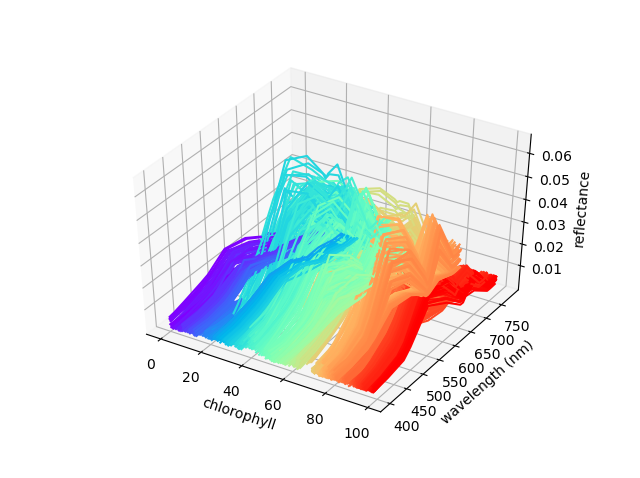
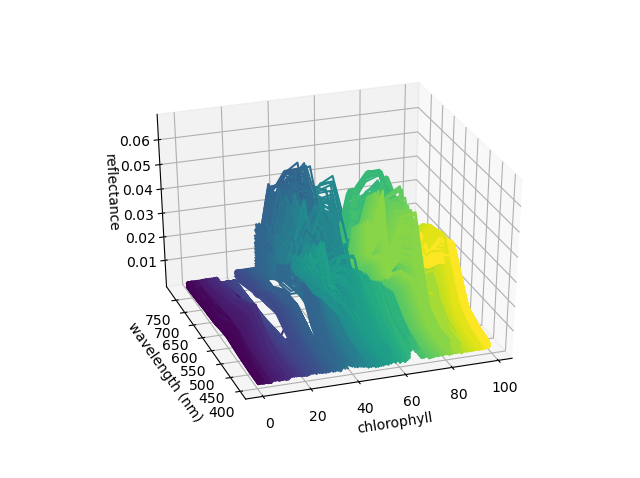
paths and plot

Changed region(s): [[0.1562, 0.205, 0.9375, 0.9372], [0.4375, 0.1757, 0.5, 0.205]]

diff --git a/models/utilities/plot_training_data.py b/models/utilities/plot_training_data.py
@@ -1,0 +1,38 @@
+import matplotlib
+
+matplotlib.use('Qt5Agg')
+
+from matplotlib import colors, pyplot
+import numpy
+import pandas
+
+if __name__ == '__main__':
+    training_data = pandas.read_csv('../../data/training.csv')
+    training_data = training_data.sort_values('Chl')
+
+    wavelengths = list(training_data.columns)[:-1]
+    wavelengths[0] = wavelengths[0][2:]
+    wavelengths = [float(wavelength) for wavelength in wavelengths]
+
+    color_map = pyplot.cm.viridis
+    color_normalizer = colors.Normalize(vmin=0, vmax=len(training_data))
+
+    chlorophyll_mininmum = training_data['Chl'].min()
+    chlorophyll_maxinmum = training_data['Chl'].max()
+
+    figure = pyplot.figure()
+    axis = figure.add_subplot(1, 1, 1, projection='3d')
+
+    for site_index, site in training_data.iloc[::100, :].iterrows():
+        axis.plot(xs=numpy.full([len(wavelengths)], fill_value=chlorophyll_mininmum + ((chlorophyll_maxinmum - chlorophyll_mininmum) * color_normalizer(site_index))),
+                  ys=wavelengths,
+                  zs=site[:-1],
+                  c=color_map(color_normalizer(site_index)))
+
+    axis.set_xlabel('chlorophyll')
+    axis.set_ylabel('wavelength (nm)')
+    axis.set_zlabel('reflectance')
+
+    pyplot.show()
+
+    print('done')
